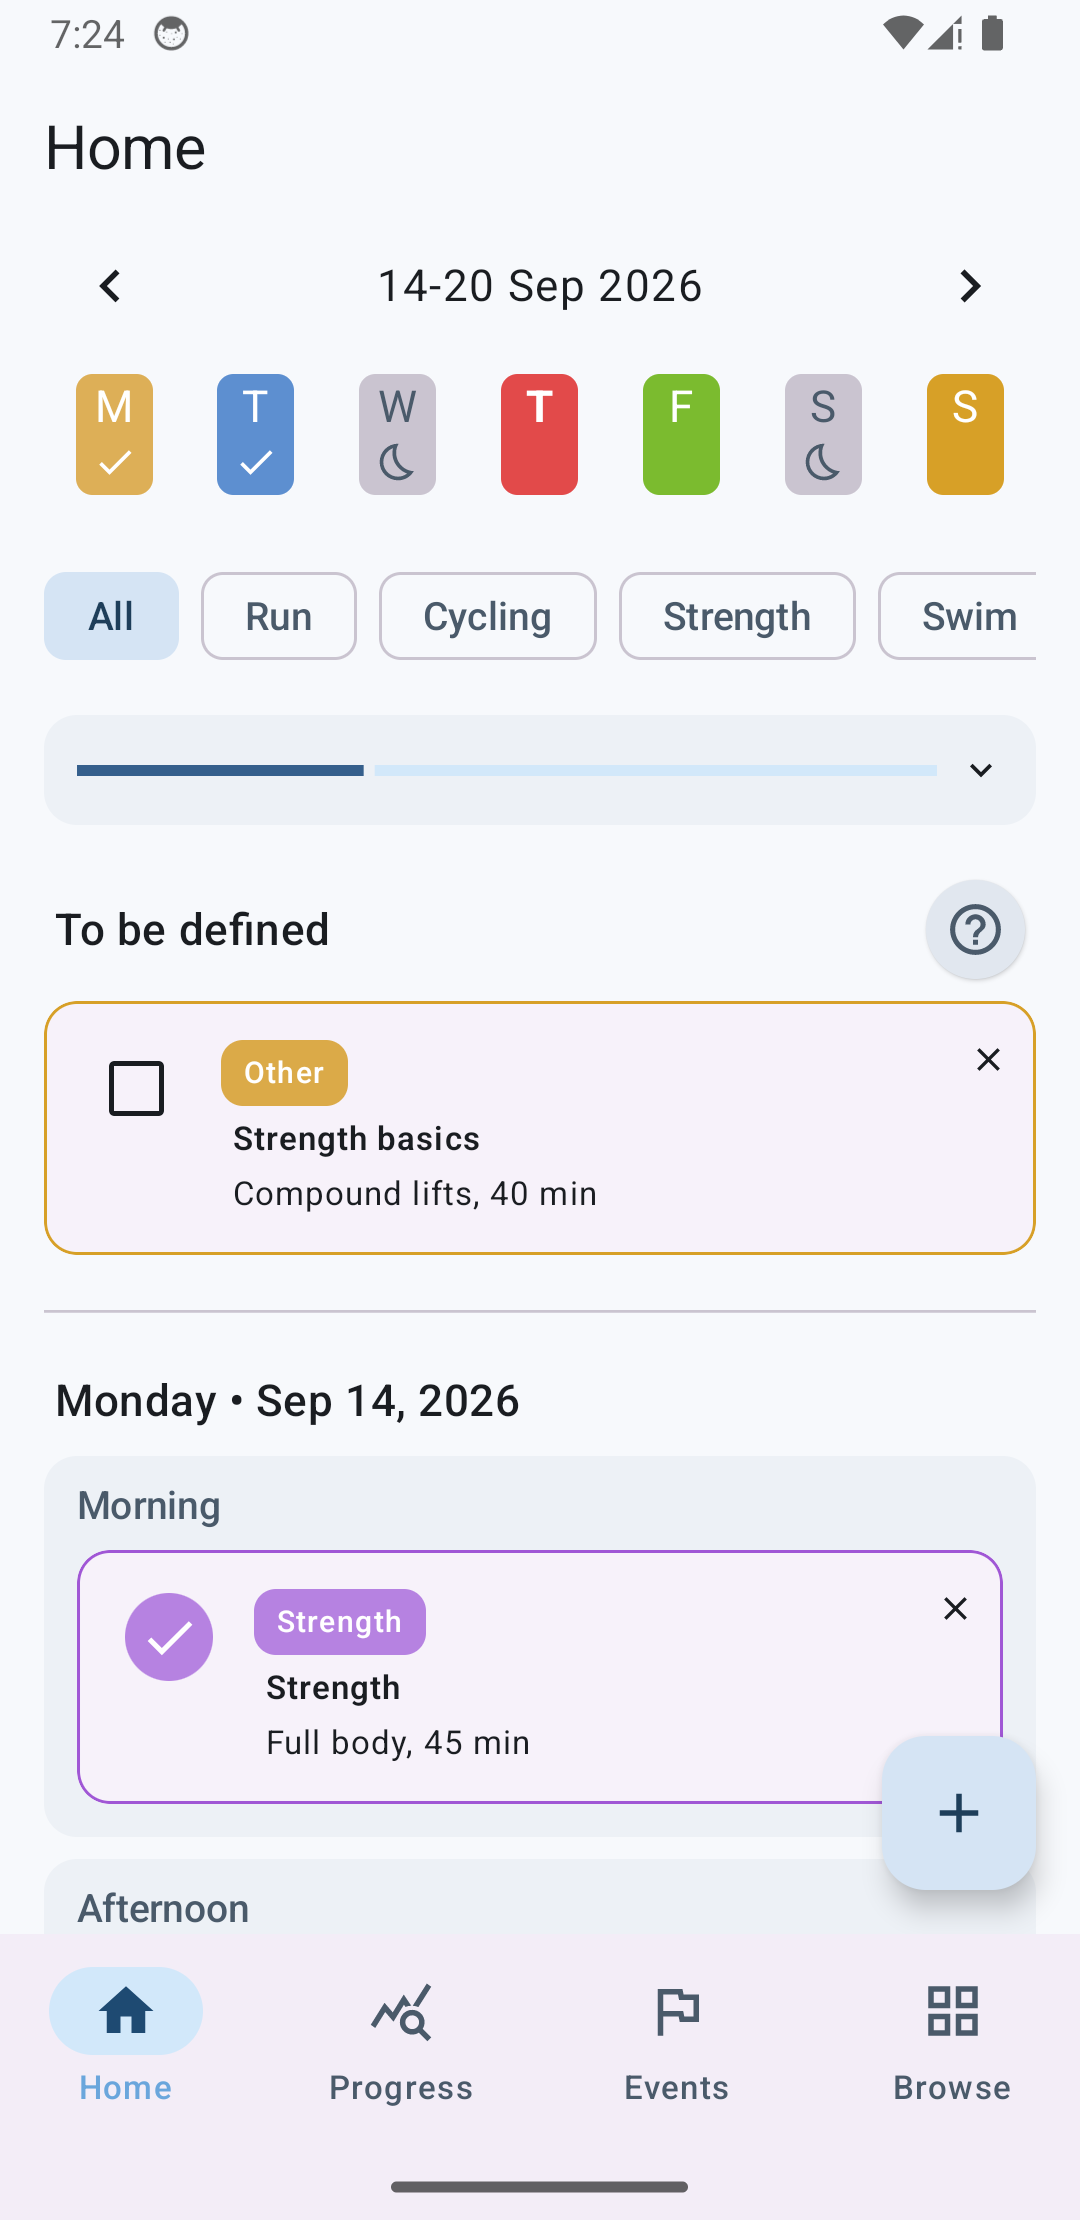
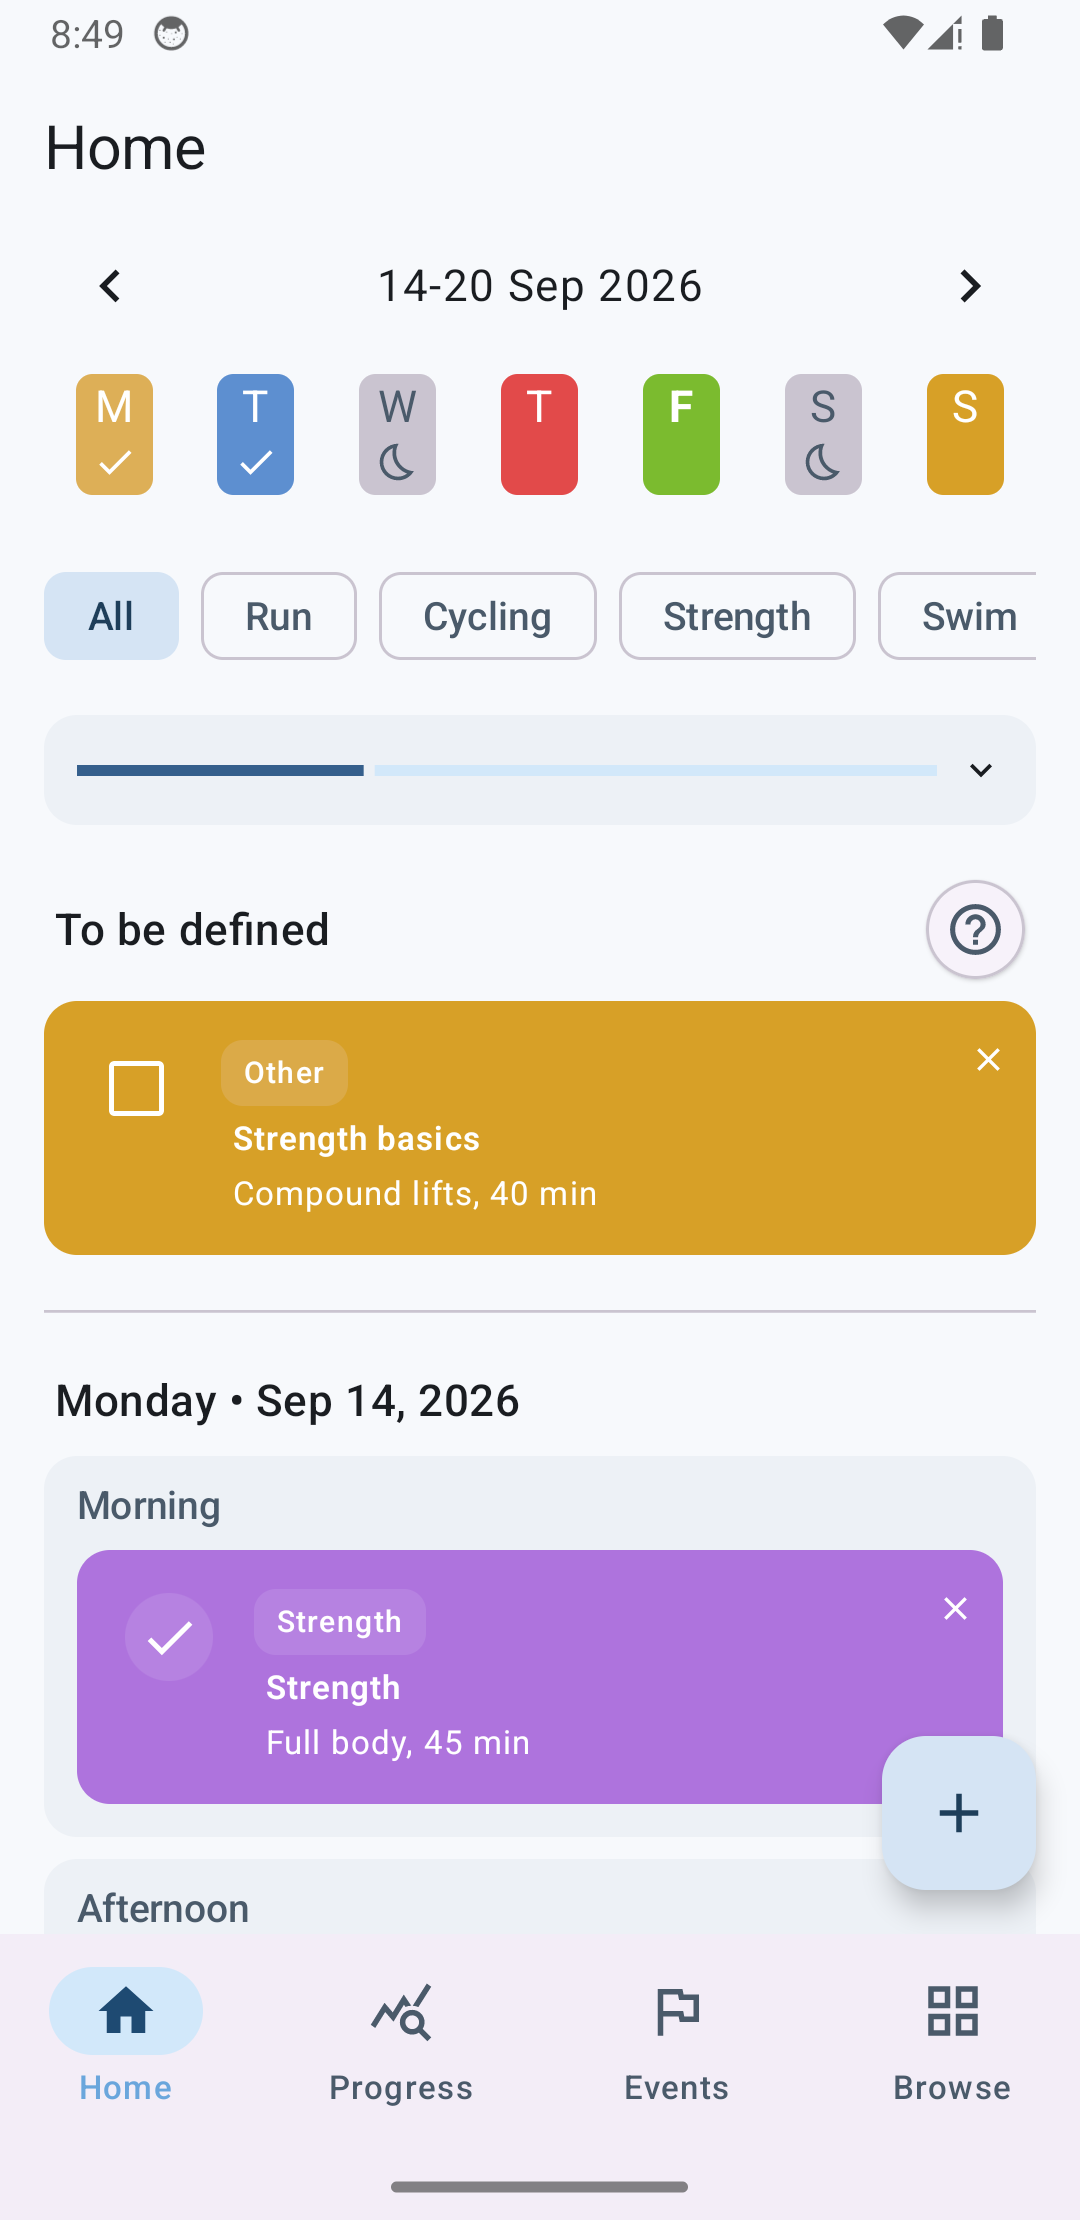
Refine home workout planner rows

diff --git a/app/src/main/java/com/rafaelfelipeac/hermes/core/ui/components/calendar/weeklytraining/WeeklyTrainingRow.kt b/app/src/main/java/com/rafaelfelipeac/hermes/core/ui/components/calendar/weeklytraining/WeeklyTrainingRow.kt
@@ -10,7 +10,6 @@ import androidx.compose.foundation.layout.Box
 import androidx.compose.foundation.layout.Column
 import androidx.compose.foundation.layout.Row
 import androidx.compose.foundation.layout.Spacer
-import androidx.compose.foundation.layout.fillMaxHeight
 import androidx.compose.foundation.layout.fillMaxWidth
 import androidx.compose.foundation.layout.height
 import androidx.compose.foundation.layout.offset
@@ -61,6 +60,8 @@ import com.rafaelfelipeac.hermes.R
 import com.rafaelfelipeac.hermes.core.ui.components.TitleChip
 import com.rafaelfelipeac.hermes.core.ui.components.calendar.baseCategoryColor
 import com.rafaelfelipeac.hermes.core.ui.components.calendar.completedCategoryColor
+import com.rafaelfelipeac.hermes.core.ui.theme.CompletedBlue
+import com.rafaelfelipeac.hermes.core.ui.theme.CompletedBlueContent
 import com.rafaelfelipeac.hermes.core.ui.theme.Dimens.BorderHairline
 import com.rafaelfelipeac.hermes.core.ui.theme.Dimens.CheckboxBoxSize
 import com.rafaelfelipeac.hermes.core.ui.theme.Dimens.CheckboxSize
@@ -76,7 +77,10 @@ import com.rafaelfelipeac.hermes.core.ui.theme.Dimens.SpacingXs
 import com.rafaelfelipeac.hermes.core.ui.theme.Dimens.Zero
 import com.rafaelfelipeac.hermes.core.ui.theme.LIGHTER_TONE_BLEND_DARK
 import com.rafaelfelipeac.hermes.core.ui.theme.LIGHTER_TONE_BLEND_LIGHT
+import com.rafaelfelipeac.hermes.core.ui.theme.TodoBlue
+import com.rafaelfelipeac.hermes.core.ui.theme.TodoBlueContent
 import com.rafaelfelipeac.hermes.core.ui.theme.categoryAccentColor
+import com.rafaelfelipeac.hermes.core.ui.theme.contentColorForBackground
 import com.rafaelfelipeac.hermes.core.ui.theme.isDarkBackground
 import com.rafaelfelipeac.hermes.features.weeklytraining.domain.model.EventType
 import com.rafaelfelipeac.hermes.features.weeklytraining.domain.model.EventType.RACE_EVENT
@@ -148,7 +152,7 @@ internal fun WorkoutRow(
             }
             .clip(shapes.medium)
             .then(
-                if (!isDragging) {
+                if (!isDragging && workout.eventType != WORKOUT) {
                     Modifier.border(
                         width = BorderHairline,
                         color = categoryAccent ?: colorScheme.outlineVariant,
@@ -187,16 +191,6 @@ internal fun WorkoutRow(
     }
 
     Box(modifier = rowModifier) {
-        if (usesCategoryStyling && categoryAccent != null) {
-            Box(
-                modifier =
-                    Modifier
-                        .fillMaxHeight()
-                        .width(SpacingXs)
-                        .background(categoryAccent),
-            )
-        }
-
         Row(
             modifier =
                 Modifier
@@ -408,16 +402,6 @@ internal fun GhostWorkoutRow(
                 .alpha(GHOST_ROW_ALPHA),
     ) {
         Box {
-            if (usesCategoryStyling && categoryAccent != null) {
-                Box(
-                    modifier =
-                        Modifier
-                            .fillMaxHeight()
-                            .width(SpacingXs)
-                            .background(categoryAccent),
-                )
-            }
-
             Row(
                 modifier = Modifier.padding(ContentPadding),
                 verticalAlignment = if (hasDescription) Alignment.Top else Alignment.CenterVertically,
@@ -484,19 +468,50 @@ private fun workoutRowColors(
     isDragging: Boolean,
 ): RowColors {
     val themeColorScheme = colorScheme
-    val restDayBackground = themeColorScheme.outlineVariant
-    val restDayContent = themeColorScheme.onSurfaceVariant
+    val todoColor = CompletedBlue
+    val todoContent = CompletedBlueContent
+    val completedColor = TodoBlue
+    val completedContent = TodoBlueContent
+    val isDarkTheme = isDarkBackground(colorScheme.background)
+    val scheduleStateBackground = themeColorScheme.surface
+    val scheduleStateContent = themeColorScheme.onSurfaceVariant
+    val categoryAccent =
+        workout.categoryColorId?.let { accent ->
+            baseCategoryColor(accent = categoryAccentColor(accent))
+        }
+    val categoryCompletedBackground =
+        categoryAccent?.let { accent ->
+            completedCategoryColor(
+                accent = accent,
+                isDarkTheme = isDarkTheme,
+                surface = themeColorScheme.surface,
+            )
+        }
+    val categoryContent =
+        categoryAccent?.let { background ->
+            readableContentOn(background)
+        }
+    val categoryCompletedContent =
+        categoryCompletedBackground?.let { background ->
+            readableContentOn(background)
+        }
 
     val background =
         when {
             isDragging -> themeColorScheme.surfaceVariant
-            workout.eventType != WORKOUT && workout.eventType != RACE_EVENT -> restDayBackground
-            else -> themeColorScheme.surfaceContainerLow
+            workout.eventType != WORKOUT && workout.eventType != RACE_EVENT -> scheduleStateBackground
+            workout.isCompleted && categoryAccent == null -> completedColor
+            workout.isCompleted && categoryCompletedBackground != null -> categoryCompletedBackground
+            categoryAccent != null -> categoryAccent
+            else -> todoColor
         }
     val content =
         when {
-            workout.eventType != WORKOUT && workout.eventType != RACE_EVENT -> restDayContent
-            else -> themeColorScheme.onSurface
+            workout.eventType != WORKOUT && workout.eventType != RACE_EVENT -> scheduleStateContent
+            workout.isCompleted && categoryContent == null -> completedContent
+            workout.isCompleted && categoryCompletedContent != null -> categoryCompletedContent
+            categoryContent != null -> categoryContent
+            else -> todoContent
         }
 
     return RowColors(background, content)
@@ -504,6 +519,10 @@ private fun workoutRowColors(
 
 private fun itemBoundsHeight(coordinates: LayoutCoordinates?): Float {
     return coordinates?.boundsInRoot()?.height ?: 0f
+}
+
+private fun readableContentOn(background: Color): Color {
+    return contentColorForBackground(background)
 }
 
 private fun WorkoutUi.usesCategoryStyling(): Boolean {

diff --git a/LEARNING.md b/LEARNING.md
@@ -30,6 +30,7 @@ Assumptions made from the current code and README:
 If future work adds light recognition (soft streaks, small trophies, gentle celebrations), it should stay opt-in and non-judgmental so it reinforces the calm, offline-first intent instead of undermining it.
 
 Recent learnings:
+- Weekly workout rows are a deliberate exception to the newer category-card rail pattern. On the Home planner, workouts behave more like calendar blocks than summary cards, so full category-color surfaces preserve fast board scanning while Events, Trophies, Records, and Challenges keep the calmer rail + neutral frame treatment.
 - Challenge cards read calmer when category color is limited to identity surfaces (left rail and category chip) while progress uses the theme primary color. Target type still works best as a neutral chip beside category, while status color should be supplementary text instead of another saturated chip/bar system competing with the category.
 - When a progress bar uses nested fill layers, the outer planned workload can be correct while the inner completion layer still renders from the top by default; explicitly bottom-aligning the inner layer preserves the intended "completion rises from the base" reading.
 - Weekly completion charts are easier to read when the bar height encodes planned workload and the fill encodes completion; percent-only bars hide the fact that a 1/1 week and a 9/10 week are not the same kind of load.
@@ -697,3 +698,7 @@ Recent learnings:
 - Pace calculator results should not borrow category-card rail language when there is no category metadata. A distinct result container tone makes the computed output read as an answer instead of another input or category-owned card.
 
 - Activity timeline rails should share the same physical rail and neutral-frame vocabulary as later category-owned cards, even though their color represents chronology rather than category metadata. Keeping the geometry consistent makes the UI family feel intentional.
+
+## Home schedule state rows stay neutral
+
+Rest, unavailable, and sick rows on Home are not category-backed planner blocks, so they should not inherit the full category-color treatment used by workouts and race events. A neutral surface with the standard outline keeps them readable as schedule states while preserving the stronger calendar-like color language for actionable training items.
